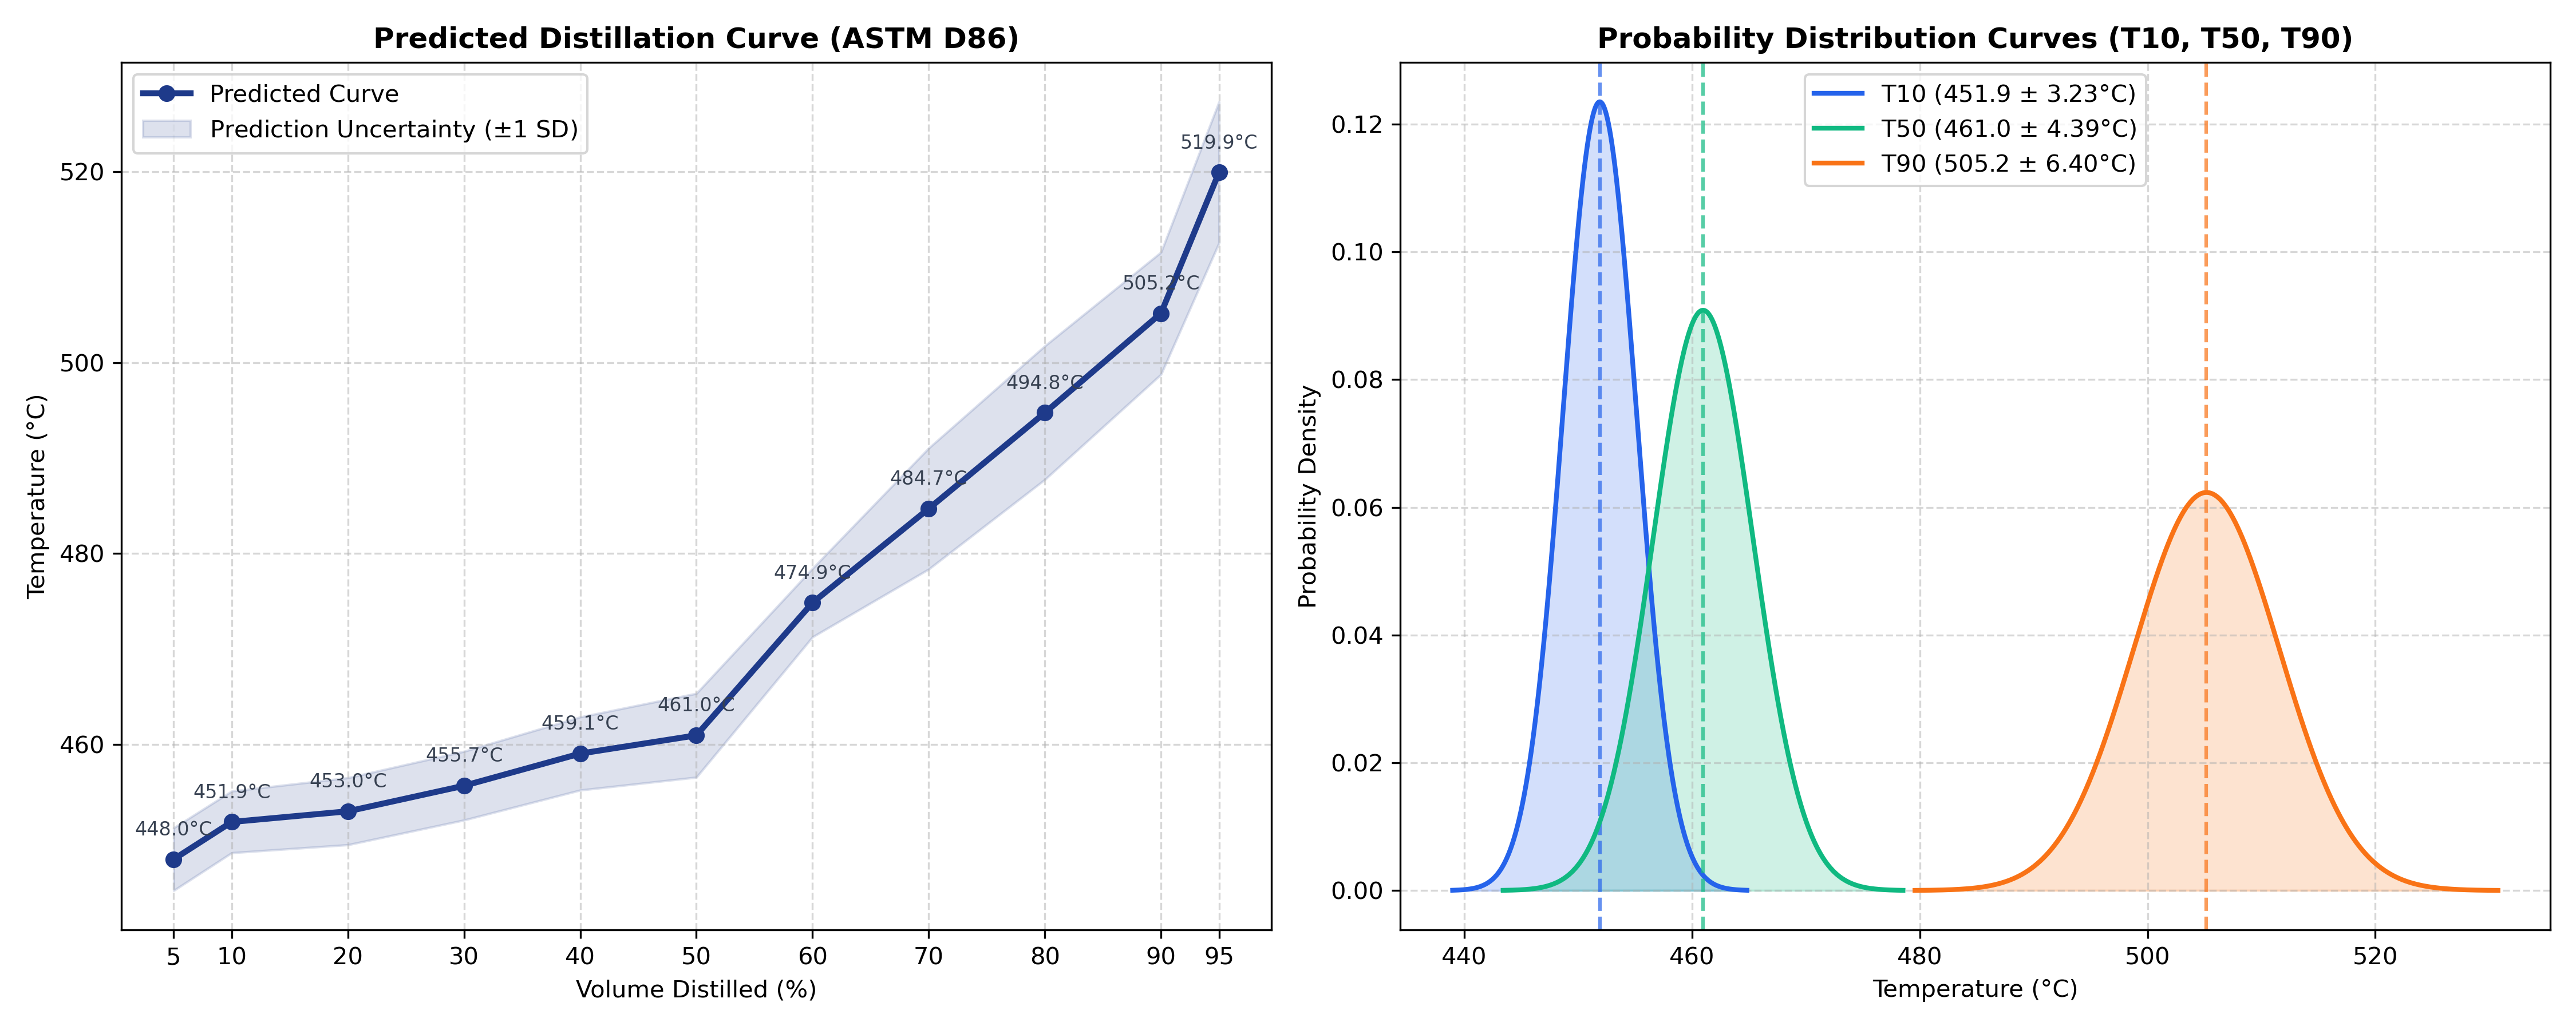
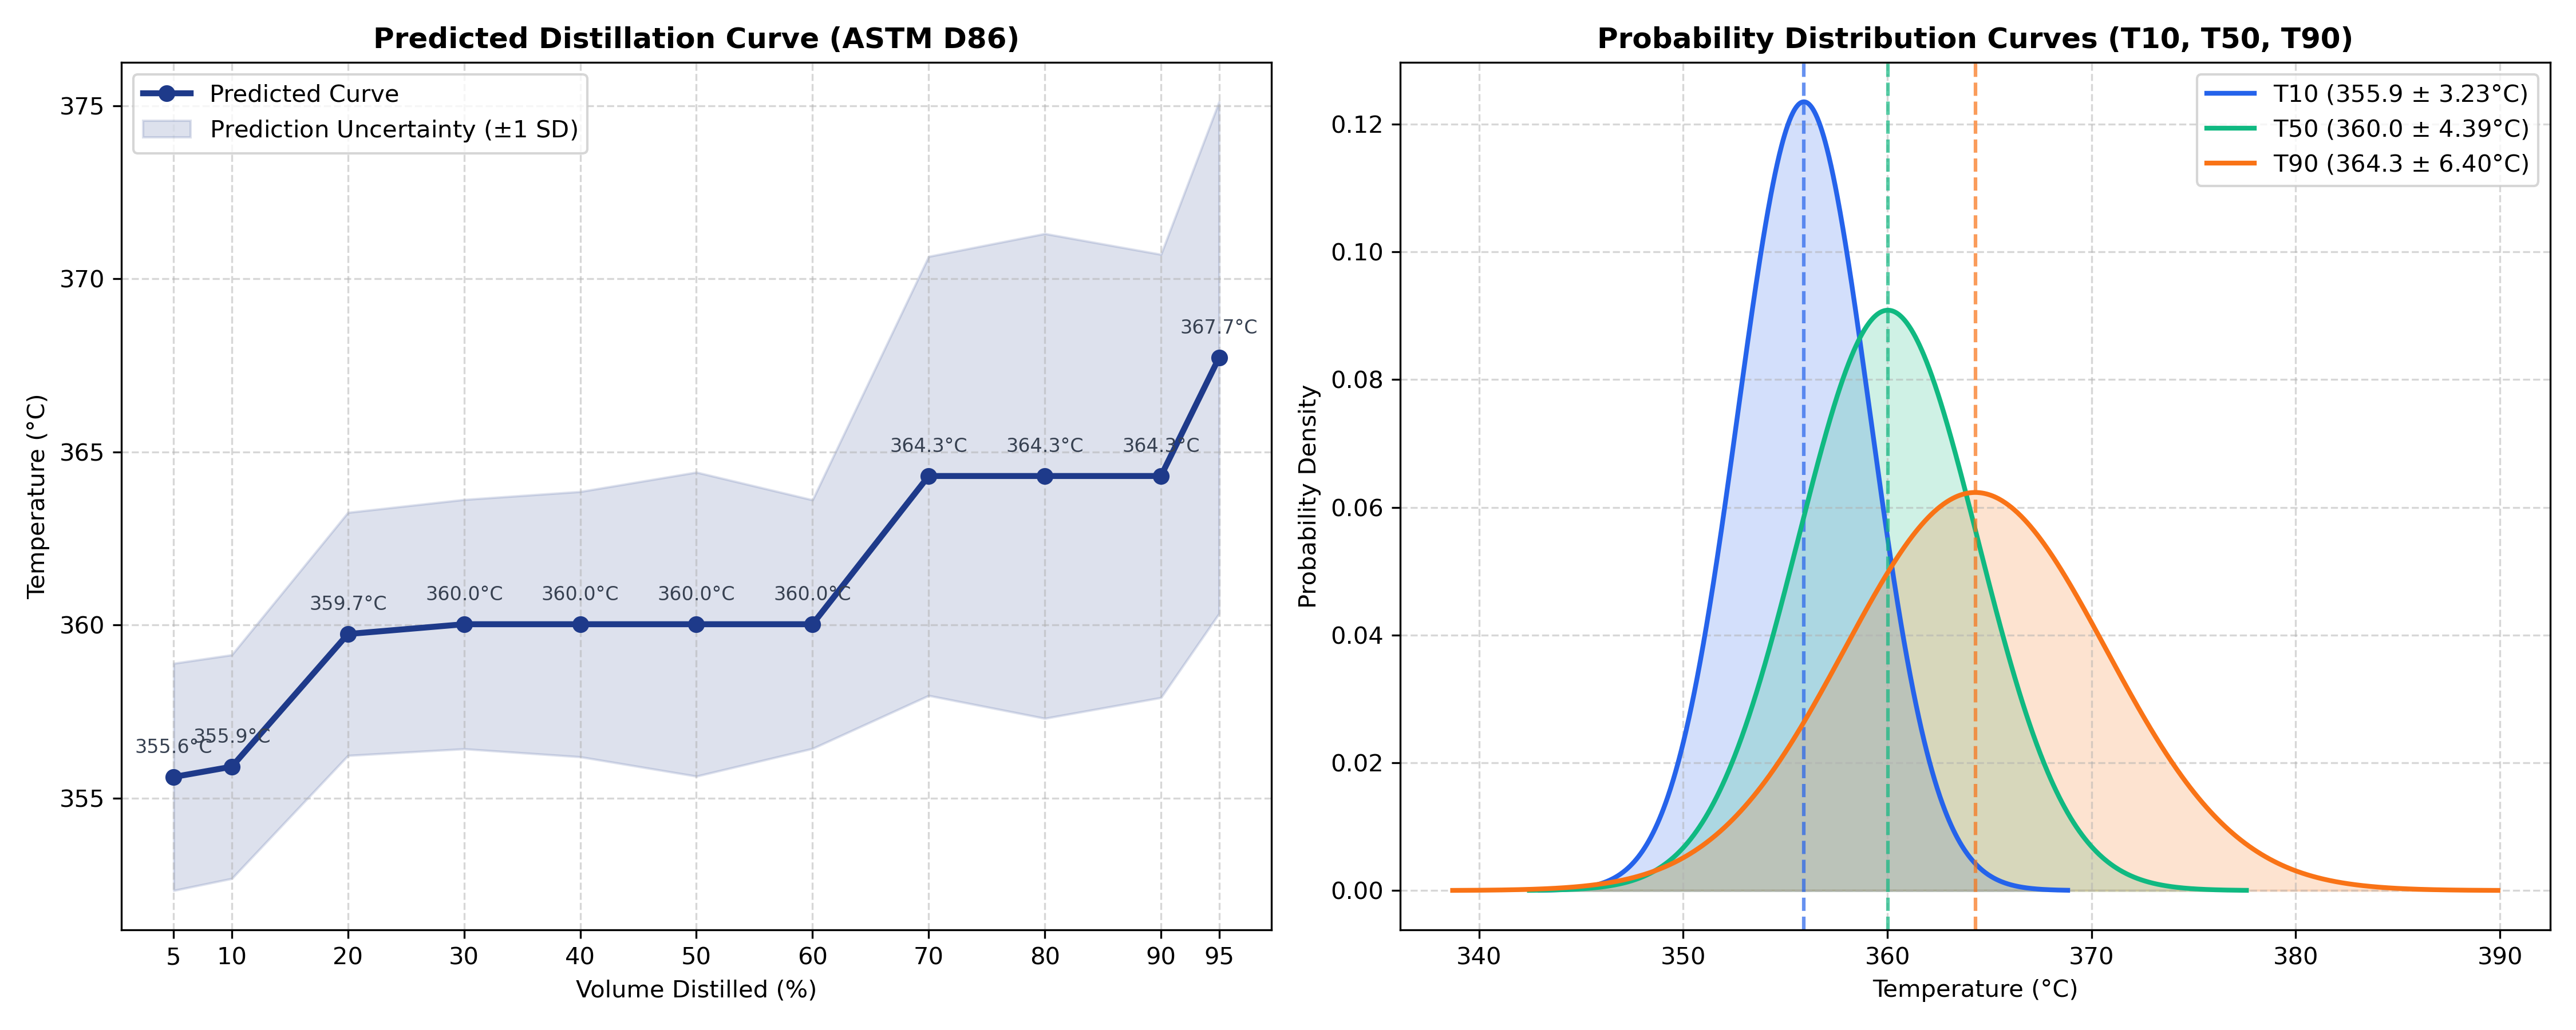
enforced strict monotonicity in forward & inverse 2gdc models

diff --git a/dist_2dgc/scripts/train_export.py b/dist_2dgc/scripts/train_export.py
@@ -11,6 +11,8 @@ from sklearn.impute import SimpleImputer
 import skl2onnx
 from skl2onnx import convert_sklearn
 from skl2onnx.common.data_types import FloatTensorType
+import onnx
+from onnx import helper, numpy_helper, TensorProto
 
 def main():
     # Configure unbuffered output
@@ -21,8 +23,13 @@ def main():
     _ROOT = _HERE.parent.parent              # turingtrain/
     
     data_path = _ROOT / "model_training" / "dist_2dgc" / "training_data" / "dist_2dgc_dataset.dat"
+    
+    # Define outputs paths for both old and new layouts to keep backward compatibility
     models_dir = _HERE.parent / "models"
+    shared_models_dir = _ROOT / "models" / "distillation_2dgc"
+    
     models_dir.mkdir(parents=True, exist_ok=True)
+    shared_models_dir.mkdir(parents=True, exist_ok=True)
 
     print(f"Loading distillation dataset from: {data_path}")
     # Handle mixed types columns to prevent Performance/DtypeWarning
@@ -31,6 +38,13 @@ def main():
     # Define standard outputs
     targets = ['T05', 'T10', 'T20', 'T30', 'T40', 'T50', 'T60', 'T70', 'T80', 'T90', 'T95']
     df = df.dropna(subset=targets)
+    
+    # Filter out non-monotonic anomalies in the training set (8 samples)
+    df_valid = df[targets]
+    diffs = df_valid.diff(axis=1)
+    monotonic_mask = ~(diffs.iloc[:, 1:] < 0).any(axis=1)
+    df = df[monotonic_mask]
+    print(f"Filtered out non-monotonic training rows. Remaining samples: {len(df)}")
     
     # Define standard classes map
     classes_map = {
@@ -65,20 +79,29 @@ def main():
     X_raw = df[feature_cols].apply(pd.to_numeric, errors='coerce').fillna(0.0).values
     Y_raw = df[targets].apply(pd.to_numeric, errors='coerce').fillna(0.0).values
     
-    print(f"Dataset Loaded. Samples count: {len(X_raw)}")
-    print(f"X shape: {X_raw.shape}, Y shape: {Y_raw.shape}")
+    # Compute target deltas for training:
+    # d0 = T05
+    # d1 = T10 - T05
+    # d2 = T20 - T10, etc.
+    Y_deltas = np.zeros_like(Y_raw)
+    Y_deltas[:, 0] = Y_raw[:, 0]
+    for idx in range(1, 11):
+        Y_deltas[:, idx] = Y_raw[:, idx] - Y_raw[:, idx - 1]
     
-    # 1. Train Forward Model (Ridge regression with target-specific alphas)
-    # Alphas chosen from cross-validation: 50.0 for T60, 10.0 for other targets
-    alphas = np.array([10.0, 10.0, 10.0, 10.0, 10.0, 10.0, 50.0, 10.0, 10.0, 10.0, 10.0])
+    print(f"Dataset Loaded. Samples count: {len(X_raw)}")
+    print(f"X shape: {X_raw.shape}, Y_deltas shape: {Y_deltas.shape}")
+    
+    # 1. Train Forward Model (Ridge regression predicting deltas)
+    # Alphas chosen from delta cross-validation:
+    alphas = np.array([10.0, 10.0, 10.0, 10.0, 10.0, 50.0, 10.0, 50.0, 10.0, 1.0, 1.0])
     
     forward_model = Pipeline([
         ('imputer', SimpleImputer(strategy='constant', fill_value=0.0)),
         ('scaler', StandardScaler()),
         ('regressor', Ridge(alpha=alphas, random_state=42))
     ])
-    print("Training Forward Model (Composition -> Distillation Curve)...")
-    forward_model.fit(X_raw, Y_raw)
+    print("Training Forward Model on temperature deltas...")
+    forward_model.fit(X_raw, Y_deltas)
     
     # 2. Train Inverse Model (Distillation Curve -> Composition)
     # Alpha chosen from cross-validation: 1.0
@@ -92,23 +115,103 @@ def main():
     # --- Export to ONNX ---
     print("Converting models to ONNX...")
     
-    # Forward Model ONNX Conversion
+    # Convert standard Ridge pipeline predicting deltas to ONNX
     initial_type_fwd = [('float_input', FloatTensorType([None, len(feature_cols)]))]
     onx_fwd = convert_sklearn(forward_model, initial_types=initial_type_fwd)
-    fwd_path = models_dir / "distillation_model.onnx"
-    with open(fwd_path, "wb") as f:
-        f.write(onx_fwd.SerializeToString())
-    print(f"✓ Exported Forward Model to: {fwd_path}")
+    
+    # Inject ONNX nodes to enforce monotonicity post-regressor
+    raw_output_name = onx_fwd.graph.output[0].name
+    raw_graph = onx_fwd.graph
+    
+    # Define constant U (11x11 upper triangular matrix of ones) to compute the forward cumulative sum
+    U_matrix = np.triu(np.ones((11, 11), dtype=np.float32))
+    U_tensor = numpy_helper.from_array(U_matrix, name="U_matrix")
+    raw_graph.initializer.append(U_tensor)
+    
+    # Slicing parameters to separate d0 from d_rest
+    starts_0 = numpy_helper.from_array(np.array([0], dtype=np.int64), name="starts_0")
+    ends_1 = numpy_helper.from_array(np.array([1], dtype=np.int64), name="ends_1")
+    starts_1 = numpy_helper.from_array(np.array([1], dtype=np.int64), name="starts_1")
+    ends_11 = numpy_helper.from_array(np.array([11], dtype=np.int64), name="ends_11")
+    axes_1 = numpy_helper.from_array(np.array([1], dtype=np.int64), name="axes_1")
+    raw_graph.initializer.extend([starts_0, ends_1, starts_1, ends_11, axes_1])
+    
+    # ONNX Nodes:
+    # 1. Slice d0
+    node_slice_d0 = helper.make_node(
+        'Slice',
+        inputs=[raw_output_name, 'starts_0', 'ends_1', 'axes_1'],
+        outputs=['d0'],
+        name='slice_d0'
+    )
+    # 2. Slice d_rest (indices 1 to 10)
+    node_slice_drest = helper.make_node(
+        'Slice',
+        inputs=[raw_output_name, 'starts_1', 'ends_11', 'axes_1'],
+        outputs=['d_rest'],
+        name='slice_d_rest'
+    )
+    # 3. Clip rest of deltas using Relu to be non-negative
+    node_relu = helper.make_node(
+        'Relu',
+        inputs=['d_rest'],
+        outputs=['d_rest_clipped'],
+        name='relu_drest'
+    )
+    # 4. Concatenate d0 and d_rest_clipped
+    node_concat = helper.make_node(
+        'Concat',
+        inputs=['d0', 'd_rest_clipped'],
+        outputs=['clipped_deltas'],
+        axis=1,
+        name='concat_deltas'
+    )
+    # 5. Multiply by U to do the cumulative sum: T_i = sum_{j=0}^i d_j
+    node_matmul = helper.make_node(
+        'MatMul',
+        inputs=['clipped_deltas', 'U_matrix'],
+        outputs=['monotonic_temps'],
+        name='matmul_U'
+    )
+    
+    raw_graph.node.extend([node_slice_d0, node_slice_drest, node_relu, node_concat, node_matmul])
+    
+    # Update graph output to be the monotonic_temps
+    new_output = helper.make_tensor_value_info(
+        'monotonic_temps',
+        TensorProto.FLOAT,
+        [None, 11]
+    )
+    raw_graph.output.pop()
+    raw_graph.output.append(new_output)
+    
+    # Save the modified ONNX model to both directories
+    onnx.checker.check_model(onx_fwd)
+    
+    fwd_paths = [
+        models_dir / "distillation_model.onnx",
+        shared_models_dir / "distillation_2dgc_model.onnx"
+    ]
+    for p in fwd_paths:
+        with open(p, "wb") as f:
+            f.write(onx_fwd.SerializeToString())
+        print(f"✓ Exported Monotonic Forward Model to: {p}")
         
     # Inverse Model ONNX Conversion
     initial_type_inv = [('float_input', FloatTensorType([None, len(targets)]))]
     onx_inv = convert_sklearn(inverse_model, initial_types=initial_type_inv)
-    inv_path = models_dir / "inverse_model.onnx"
-    with open(inv_path, "wb") as f:
-        f.write(onx_inv.SerializeToString())
-    print(f"✓ Exported Inverse Model to: {inv_path}")
     
-    print("✓ All distillation models trained and exported successfully.")
+    inv_paths = [
+        models_dir / "inverse_model.onnx",
+        shared_models_dir / "distillation_2dgc_inverse_model.onnx"
+    ]
+    for p in inv_paths:
+        with open(p, "wb") as f:
+            f.write(onx_inv.SerializeToString())
+        print(f"✓ Exported Inverse Model to: {p}")
+    
+    print("✓ All distillation models trained, compiled, and exported successfully.")
 
 if __name__ == "__main__":
     main()
+

diff --git a/dist_2dgc/inference.py b/dist_2dgc/inference.py
@@ -24,6 +24,24 @@ import numpy as np
 import pandas as pd
 import matplotlib.pyplot as plt
 
+_SCRIPT_DIR = os.path.dirname(os.path.abspath(__file__))
+_FUEL_CHEM_DIR = os.path.normpath(os.path.join(_SCRIPT_DIR, ".."))
+_DEFAULT_FORWARD_MODEL = os.path.join(
+    _FUEL_CHEM_DIR, "models", "distillation_2dgc", "distillation_2dgc_model.onnx"
+)
+_DEFAULT_INVERSE_MODEL = os.path.join(
+    _FUEL_CHEM_DIR, "models", "distillation_2dgc", "distillation_2dgc_inverse_model.onnx"
+)
+_DEFAULT_FORWARD_PLOT = os.path.join(_SCRIPT_DIR, "distillation_curve.png")
+_DEFAULT_INVERSE_CSV = os.path.join(_SCRIPT_DIR, "inverse_dist_composition.csv")
+_DEFAULT_INVERSE_PLOT = os.path.join(_SCRIPT_DIR, "inverse_dist_composition.png")
+
+
+def _ensure_parent_dir(filepath):
+    parent = os.path.dirname(os.path.abspath(filepath))
+    if parent:
+        os.makedirs(parent, exist_ok=True)
+
 def load_input_file(filepath):
     """Reads the input composition matrix (carbon numbers x classes) and flattens it."""
     if not os.path.exists(filepath):
@@ -34,7 +52,7 @@ def load_input_file(filepath):
     # Map input index to standard uppercase format (e.g. C1-C30)
     df.index = [str(idx).strip().upper() for idx in df.index]
     
-    # Map input columns using classes_map (supporting both short and long names)
+    # Map input columns using classes_map (supporting both short and long names to internal names)
     classes_map = {
         'n-paraffins': 'nor_par',
         'iso-paraffins': 'iso_par',
@@ -46,7 +64,11 @@ def load_input_file(filepath):
         'cycloaromatics': 'nap_aro',
         'olefins': 'olef',
         'synthetic-oxygenates': 'syn_oxy',
+        'synergistic_oxygenates': 'syn_oxy',
+        'syn_oxy': 'syn_oxy',
         'antioxidant-oxygenates': 'ant_oxy',
+        'antagonistic_oxygenates': 'ant_oxy',
+        'ant_oxy': 'ant_oxy',
         'dienes': 'dien',
         'indenes': 'inde'
     }
@@ -141,8 +163,9 @@ def run_forward(model_path, input_path, out_plot_path=None):
     plt.tight_layout()
     
     if not out_plot_path:
-        out_plot_path = "dist_2dgc/distillation_curve.png"
-        
+        out_plot_path = _DEFAULT_FORWARD_PLOT
+ 
+    _ensure_parent_dir(out_plot_path)
     plt.savefig(out_plot_path, dpi=300)
     print(f"\nSaved distillation curve and probability distribution plots to: {out_plot_path}")
 
@@ -168,7 +191,11 @@ def run_inverse(model_path, target_temps, out_csv_path=None, out_plot_path=None)
         'cycloaromatics': 'nap_aro',
         'olefins': 'olef',
         'synthetic-oxygenates': 'syn_oxy',
+        'synergistic_oxygenates': 'syn_oxy',
+        'syn_oxy': 'syn_oxy',
         'antioxidant-oxygenates': 'ant_oxy',
+        'antagonistic_oxygenates': 'ant_oxy',
+        'ant_oxy': 'ant_oxy',
         'dienes': 'dien',
         'indenes': 'inde'
     }
@@ -190,12 +217,27 @@ def run_inverse(model_path, target_temps, out_csv_path=None, out_plot_path=None)
         df_pred = df_pred / total_sum
         
     # Map column headers back to user-friendly names for display/save
-    reverse_map = {v: k for k, v in classes_map.items()}
-    df_pred.columns = [reverse_map.get(col, col) for col in df_pred.columns]
+    display_names = {
+        'nor_par': 'n-paraffins',
+        'iso_par': 'iso-paraffins',
+        'mon_nap': '1R-cycloparaffins',
+        'di_nap': '2R-cycloparaffins',
+        'tri_nap': '3R-cycloparaffins',
+        'mon_aro': '1R-aromatics',
+        'di_aro': '2R-aromatics',
+        'nap_aro': 'cycloaromatics',
+        'olef': 'olefins',
+        'syn_oxy': 'synergistic_oxygenates',
+        'ant_oxy': 'antagonistic_oxygenates',
+        'dien': 'dienes',
+        'inde': 'indenes'
+    }
+    df_pred.columns = [display_names.get(col, col) for col in df_pred.columns]
     
     if not out_csv_path:
-        out_csv_path = "inverse_dist_composition.csv"
-        
+        out_csv_path = _DEFAULT_INVERSE_CSV
+ 
+    _ensure_parent_dir(out_csv_path)
     df_pred.to_csv(out_csv_path)
     print(f"✓ Saved predicted composition matrix to: {out_csv_path}")
 
@@ -208,8 +250,9 @@ def run_inverse(model_path, target_temps, out_csv_path=None, out_plot_path=None)
     plt.tight_layout()
     
     if not out_plot_path:
-        out_plot_path = "dist_2dgc/inverse_dist_composition.png"
-        
+        out_plot_path = _DEFAULT_INVERSE_PLOT
+ 
+    _ensure_parent_dir(out_plot_path)
     plt.savefig(out_plot_path, dpi=300)
     print(f"✓ Saved visualization to: {out_plot_path}")
 
@@ -249,9 +292,7 @@ def main():
             parser.error("the --input argument is required in forward mode")
             
         if not args.model:
-            args.model = "dist_2dgc/models/distillation_model.onnx"
-            if not os.path.exists(args.model) and os.path.exists("models/distillation_model.onnx"):
-                args.model = "models/distillation_model.onnx"
+            args.model = _DEFAULT_FORWARD_MODEL
                 
         if not os.path.exists(args.model):
             print(f"Error: Forward model file not found at {args.model}")
@@ -264,9 +305,7 @@ def main():
             parser.error("the --temps argument requires exactly 11 temperature values corresponding to T05 T10 T20 T30 T40 T50 T60 T70 T80 T90 T95")
             
         if not args.model:
-            args.model = "dist_2dgc/models/inverse_model.onnx"
-            if not os.path.exists(args.model) and os.path.exists("models/inverse_model.onnx"):
-                args.model = "models/inverse_model.onnx"
+            args.model = _DEFAULT_INVERSE_MODEL
                 
         if not os.path.exists(args.model):
             print(f"Error: Inverse model file not found at {args.model}")

diff --git a/dist_2dgc/model_testing/inference.py b/dist_2dgc/model_testing/inference.py
@@ -52,7 +52,7 @@ def load_input_file(filepath):
     # Map input index to standard uppercase format (e.g. C1-C30)
     df.index = [str(idx).strip().upper() for idx in df.index]
     
-    # Map input columns using classes_map (supporting both short and long names)
+    # Map input columns using classes_map (supporting both short and long names to internal names)
     classes_map = {
         'n-paraffins': 'nor_par',
         'iso-paraffins': 'iso_par',
@@ -63,10 +63,12 @@ def load_input_file(filepath):
         '2R-aromatics': 'di_aro',
         'cycloaromatics': 'nap_aro',
         'olefins': 'olef',
-        'synthetic-oxygenates': 'synergistic_oxygenates',
-        'synergistic_oxygenates': 'synergistic_oxygenates',
-        'antioxidant-oxygenates': 'antagonistic_oxygenates',
-        'antagonistic_oxygenates': 'antagonistic_oxygenates',
+        'synthetic-oxygenates': 'syn_oxy',
+        'synergistic_oxygenates': 'syn_oxy',
+        'syn_oxy': 'syn_oxy',
+        'antioxidant-oxygenates': 'ant_oxy',
+        'antagonistic_oxygenates': 'ant_oxy',
+        'ant_oxy': 'ant_oxy',
         'dienes': 'dien',
         'indenes': 'inde'
     }
@@ -188,10 +190,12 @@ def run_inverse(model_path, target_temps, out_csv_path=None, out_plot_path=None)
         '2R-aromatics': 'di_aro',
         'cycloaromatics': 'nap_aro',
         'olefins': 'olef',
-        'synthetic-oxygenates': 'synergistic_oxygenates',
-        'synergistic_oxygenates': 'synergistic_oxygenates',
-        'antioxidant-oxygenates': 'antagonistic_oxygenates',
-        'antagonistic_oxygenates': 'antagonistic_oxygenates',
+        'synthetic-oxygenates': 'syn_oxy',
+        'synergistic_oxygenates': 'syn_oxy',
+        'syn_oxy': 'syn_oxy',
+        'antioxidant-oxygenates': 'ant_oxy',
+        'antagonistic_oxygenates': 'ant_oxy',
+        'ant_oxy': 'ant_oxy',
         'dienes': 'dien',
         'indenes': 'inde'
     }
@@ -213,8 +217,22 @@ def run_inverse(model_path, target_temps, out_csv_path=None, out_plot_path=None)
         df_pred = df_pred / total_sum
         
     # Map column headers back to user-friendly names for display/save
-    reverse_map = {v: k for k, v in classes_map.items()}
-    df_pred.columns = [reverse_map.get(col, col) for col in df_pred.columns]
+    display_names = {
+        'nor_par': 'n-paraffins',
+        'iso_par': 'iso-paraffins',
+        'mon_nap': '1R-cycloparaffins',
+        'di_nap': '2R-cycloparaffins',
+        'tri_nap': '3R-cycloparaffins',
+        'mon_aro': '1R-aromatics',
+        'di_aro': '2R-aromatics',
+        'nap_aro': 'cycloaromatics',
+        'olef': 'olefins',
+        'syn_oxy': 'synergistic_oxygenates',
+        'ant_oxy': 'antagonistic_oxygenates',
+        'dien': 'dienes',
+        'inde': 'indenes'
+    }
+    df_pred.columns = [display_names.get(col, col) for col in df_pred.columns]
     
     if not out_csv_path:
         out_csv_path = _DEFAULT_INVERSE_CSV